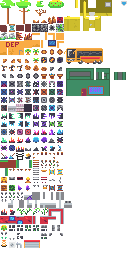
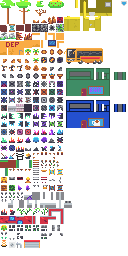
Nouveau Batiment Dans ville
Nouveau Bâtiment dans la ville

Changed region(s): [[0.5, 0.375, 1.0, 0.5]]

diff --git a/src/server/config/maps/town/chats.js b/src/server/config/maps/town/chats.js
@@ -10,6 +10,14 @@ module.exports = {
 		msg: "Quelle es la partie préférée d'un astronaute sur un clavier? ..... L'espace"
 	}, {
 		msg: "La plage dit à l'océan ... c'est vague."
+	}, {
+		msg: "Le croisement entre un chien et un rat? ....... Un chien mira"
+	}, {
+		msg: "c'est quoi le tissu le plus détesté des snipers???.....   le cachemire"
+	}, {
+		msg: "Qu'est-ce qui arrive quand deux poissons s'engueulent? ..... Le thon monte. "
+	}, {
+		msg: "Que fait un hibou dans un feu de forêt?  ....... Hiboucane."
 	}]
 	, vlad: [{
 		msg: "Arrête Igor"
@@ -33,4 +41,28 @@ module.exports = {
 	}, {
 		msg: "FREEZE"
 	}]
+	, pompon: [{
+		msg: "* prrrrrrrrrrr *"
+	}, {
+		msg: "MIAOU"
+	}, {
+		msg: "meow"
+	}, {
+		msg: "myau"
+	}, {
+		msg: "MIAU"
+	}, {
+		msg: "nya"
+	}, {
+		msg: "Myaoo"
+	}, {
+		msg: "meong"
+	}, {
+		msg: "nyaa"
+	}, {
+		msg: "miyav"
+	}, {
+		msg: "meo"
+	}
+	]
 };

diff --git a/src/server/config/changeLog.js b/src/server/config/changeLog.js
@@ -1,7 +1,22 @@
 module.exports = {
-	version: "0.1.0"
+	version: "0.1.1"
 	, content: `
 Nouvelle Version du jeu!
+Version 0.1.2
+-Changement: nouveau commerce dans la ville
+-Changement: Carte bois: Intérieur de la cabane
+-Nouveau: Dongeon de la GG
+-Nouveau: NPC ponpon dans la ville
+
+
+Version 0.1.1
+-Nouveau: test coté client en cas de crash
+-Update: Augmentation de la distance de déplacement avec la souris
+-Update: Cow, pigs, goat retiré de la ville
+-Update: Enlevé la mise a jours du gamepad du render
+-Fix: Chauffeur dans la ville teleport vers la cabanne qui s'apelle ville
+-Optimisation: minimap
+
 Version 0.1.0
 -Nouveau: Support manette de base
 -Nouveau: Fermeture des menus avec 'ESCAPE'

diff --git a/src/server/config/maps/town/zone.js b/src/server/config/maps/town/zone.js
@@ -475,7 +475,13 @@ module.exports = {
 				}
 			}
 		}
-
+		, ponpon: {
+			attackable: false
+			, level: 10
+			, rare: {
+				count: 0
+			}
+		}
 		, rodriguez: {
 			attackable: false
 			, level: 10
